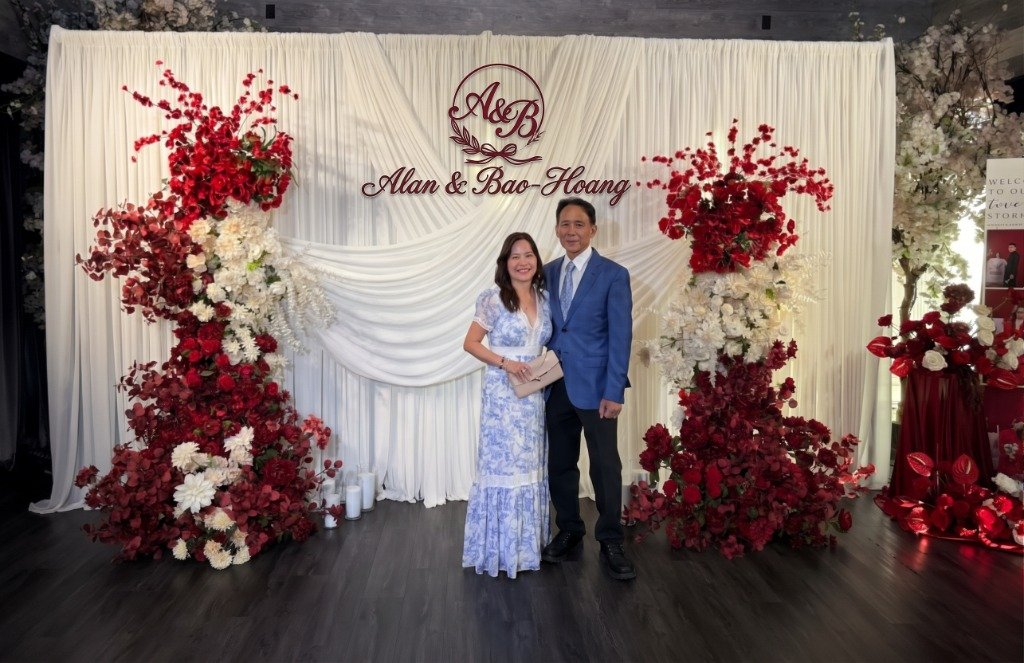
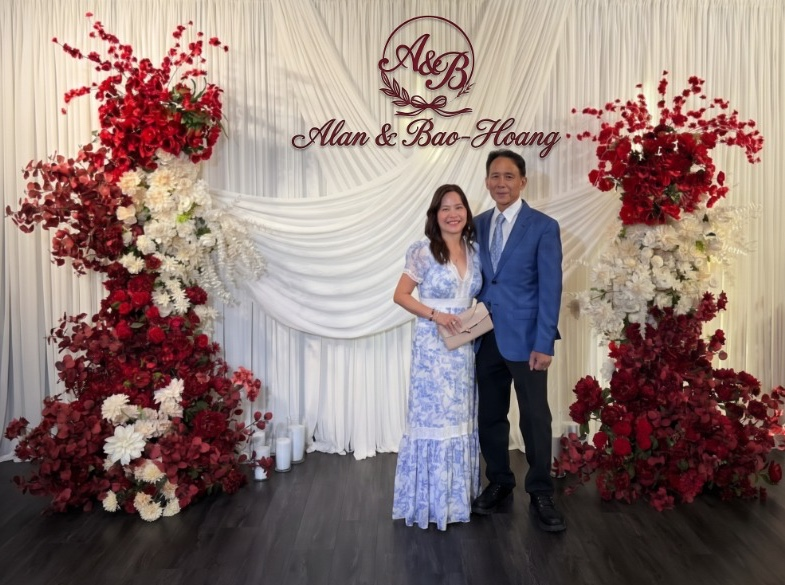
Crop couple photo tightly to white curtain backdrop and floral pillars, remove side and top clutter

diff --git a/index.html b/index.html
@@ -245,11 +245,11 @@
     .portrait-card img:hover { transform: translateY(-8px) scale(1.03); box-shadow: 0 22px 50px rgba(201,168,76,0.6); }
     .portrait-card .portrait-name { font-family: 'Cormorant Garamond', serif; font-size: 1.15rem; font-weight: 600; letter-spacing: 0.12em; color: var(--gold-dark); text-transform: uppercase; }
     .single-couple-card img {
-      width: clamp(290px, 86vw, 440px);
-      height: 300px;
+      width: clamp(300px, 88vw, 450px);
+      height: 320px;
       object-fit: cover;
-      object-position: center 30%;
-      border-radius: 170px 170px 16px 16px;
+      object-position: center 20%;
+      border-radius: 180px 180px 16px 16px;
       border: 4px solid var(--gold);
       box-shadow: 0 18px 48px rgba(201,168,76,0.45), inset 0 0 24px rgba(201,168,76,0.15);
       cursor: pointer;
